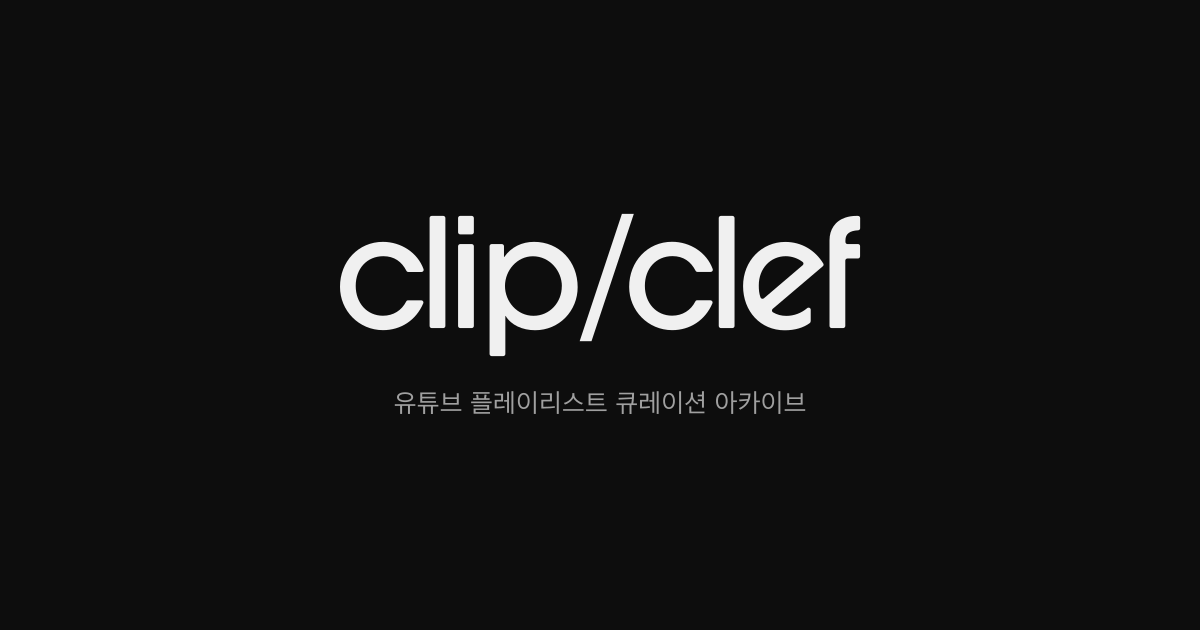
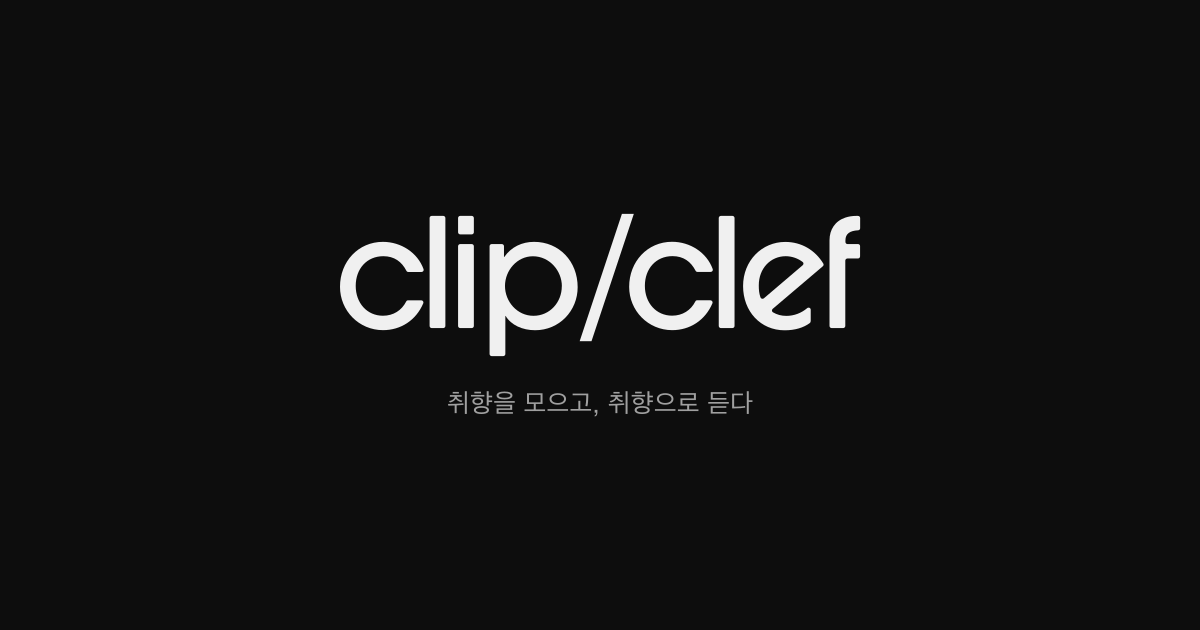
copy(seo): 캐치프레이즈 변경 — '유튜브 플레이리스트 큐레이션 아카이브' → '취향을 모으고, 취향으로 듣다'
- src/lib/seo.ts SITE_DESCRIPTION
- src/app/layout.tsx root metadata description
- scripts/build-og-image.mjs OG 이미지 텍스트
- public/og-default.png 재생성

terms/page.tsx 의 동일 문자열은 약관 정의용이라 유지.

Changed region(s): [[0.3392, 0.6032, 0.6783, 0.6635]]

diff --git a/src/lib/seo.ts b/src/lib/seo.ts
@@ -12,7 +12,7 @@ function resolveSiteUrl(): string {
 
 export const SITE_URL = resolveSiteUrl();
 export const SITE_NAME = 'clip/clef';
-export const SITE_DESCRIPTION = '유튜브 플레이리스트 큐레이션 아카이브';
+export const SITE_DESCRIPTION = '취향을 모으고, 취향으로 듣다';
 export const OG_DEFAULT = '/og-default.png';
 export const LOCALES = ['ko', 'en'] as const;
 export const DEFAULT_LOCALE = 'ko';

diff --git a/src/app/layout.tsx b/src/app/layout.tsx
@@ -2,7 +2,7 @@ import type { Metadata } from 'next';
 
 export const metadata: Metadata = {
   title: 'clip/clef',
-  description: '유튜브 플레이리스트 큐레이션 아카이브',
+  description: '취향을 모으고, 취향으로 듣다',
 };
 
 // Root layout: [locale] 레이아웃이 html/body를 렌더링
